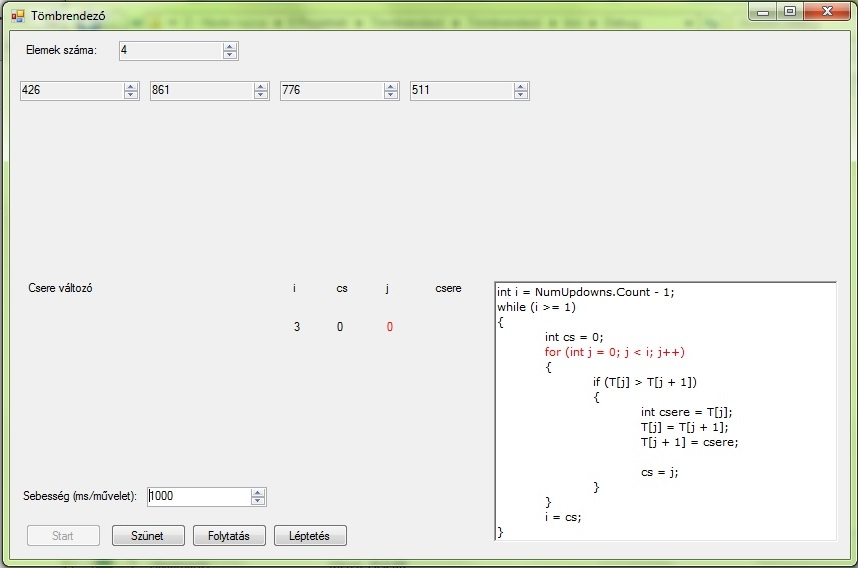
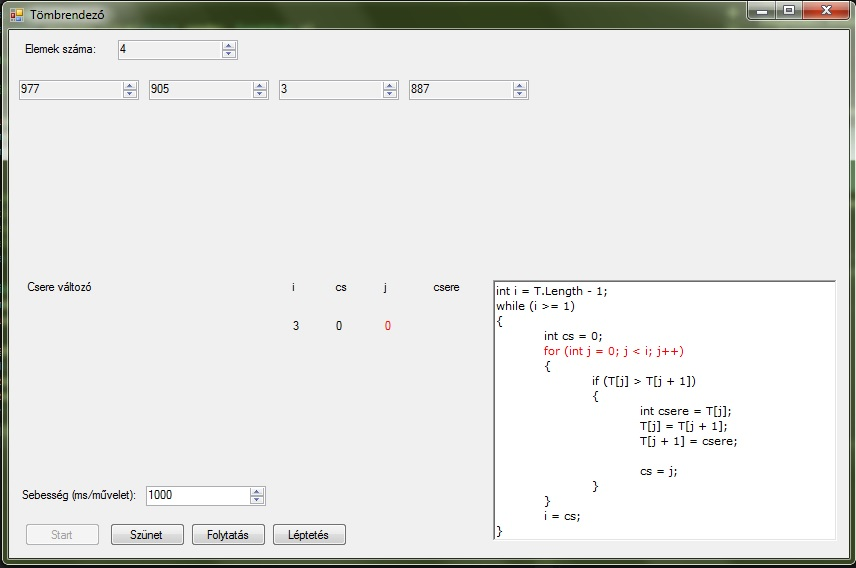
Kép

diff --git a/Tömbrendező/Form1.Designer.cs b/Tömbrendező/Form1.Designer.cs
@@ -159,7 +159,7 @@
             this.tableLayoutPanel1.ColumnStyles.Add(new System.Windows.Forms.ColumnStyle(System.Windows.Forms.SizeType.Percent, 46.55172F));
             this.tableLayoutPanel1.ColumnStyles.Add(new System.Windows.Forms.ColumnStyle(System.Windows.Forms.SizeType.Percent, 53.44828F));
             this.tableLayoutPanel1.ColumnStyles.Add(new System.Windows.Forms.ColumnStyle(System.Windows.Forms.SizeType.Absolute, 49F));
-            this.tableLayoutPanel1.ColumnStyles.Add(new System.Windows.Forms.ColumnStyle(System.Windows.Forms.SizeType.Absolute, 57F));
+            this.tableLayoutPanel1.ColumnStyles.Add(new System.Windows.Forms.ColumnStyle(System.Windows.Forms.SizeType.Absolute, 58F));
             this.tableLayoutPanel1.Controls.Add(this.labelcsere, 3, 1);
             this.tableLayoutPanel1.Controls.Add(this.labelj, 2, 1);
             this.tableLayoutPanel1.Controls.Add(this.labelcs, 1, 1);
@@ -180,7 +180,7 @@
             // labelcsere
             // 
             this.labelcsere.AutoSize = true;
-            this.labelcsere.Location = new System.Drawing.Point(145, 39);
+            this.labelcsere.Location = new System.Drawing.Point(144, 39);
             this.labelcsere.Name = "labelcsere";
             this.labelcsere.Size = new System.Drawing.Size(0, 13);
             this.labelcsere.TabIndex = 10;
@@ -188,7 +188,7 @@
             // labelj
             // 
             this.labelj.AutoSize = true;
-            this.labelj.Location = new System.Drawing.Point(96, 39);
+            this.labelj.Location = new System.Drawing.Point(95, 39);
             this.labelj.Name = "labelj";
             this.labelj.Size = new System.Drawing.Size(0, 13);
             this.labelj.TabIndex = 10;
@@ -212,7 +212,7 @@
             // label7
             // 
             this.label7.AutoSize = true;
-            this.label7.Location = new System.Drawing.Point(145, 0);
+            this.label7.Location = new System.Drawing.Point(144, 0);
             this.label7.Name = "label7";
             this.label7.Size = new System.Drawing.Size(33, 13);
             this.label7.TabIndex = 10;
@@ -221,7 +221,7 @@
             // label6
             // 
             this.label6.AutoSize = true;
-            this.label6.Location = new System.Drawing.Point(96, 0);
+            this.label6.Location = new System.Drawing.Point(95, 0);
             this.label6.Name = "label6";
             this.label6.Size = new System.Drawing.Size(9, 13);
             this.label6.TabIndex = 10;

diff --git a/Tömbrendező/Form1.cs b/Tömbrendező/Form1.cs
@@ -64,7 +64,7 @@ namespace Tömbrendező
             NumUpdowns.ForEach(numupdown => numupdown.ReadOnly = true);
             countNumUpDown.ReadOnly = true;
 
-            HighlightCode("int i = NumUpdowns.Count - 1;");
+            HighlightCode("int i = T.Length - 1;");
             int i = NumUpdowns.Count - 1;
             labeli.Text = i.ToString();
             labeli.ForeColor = Color.Red;
